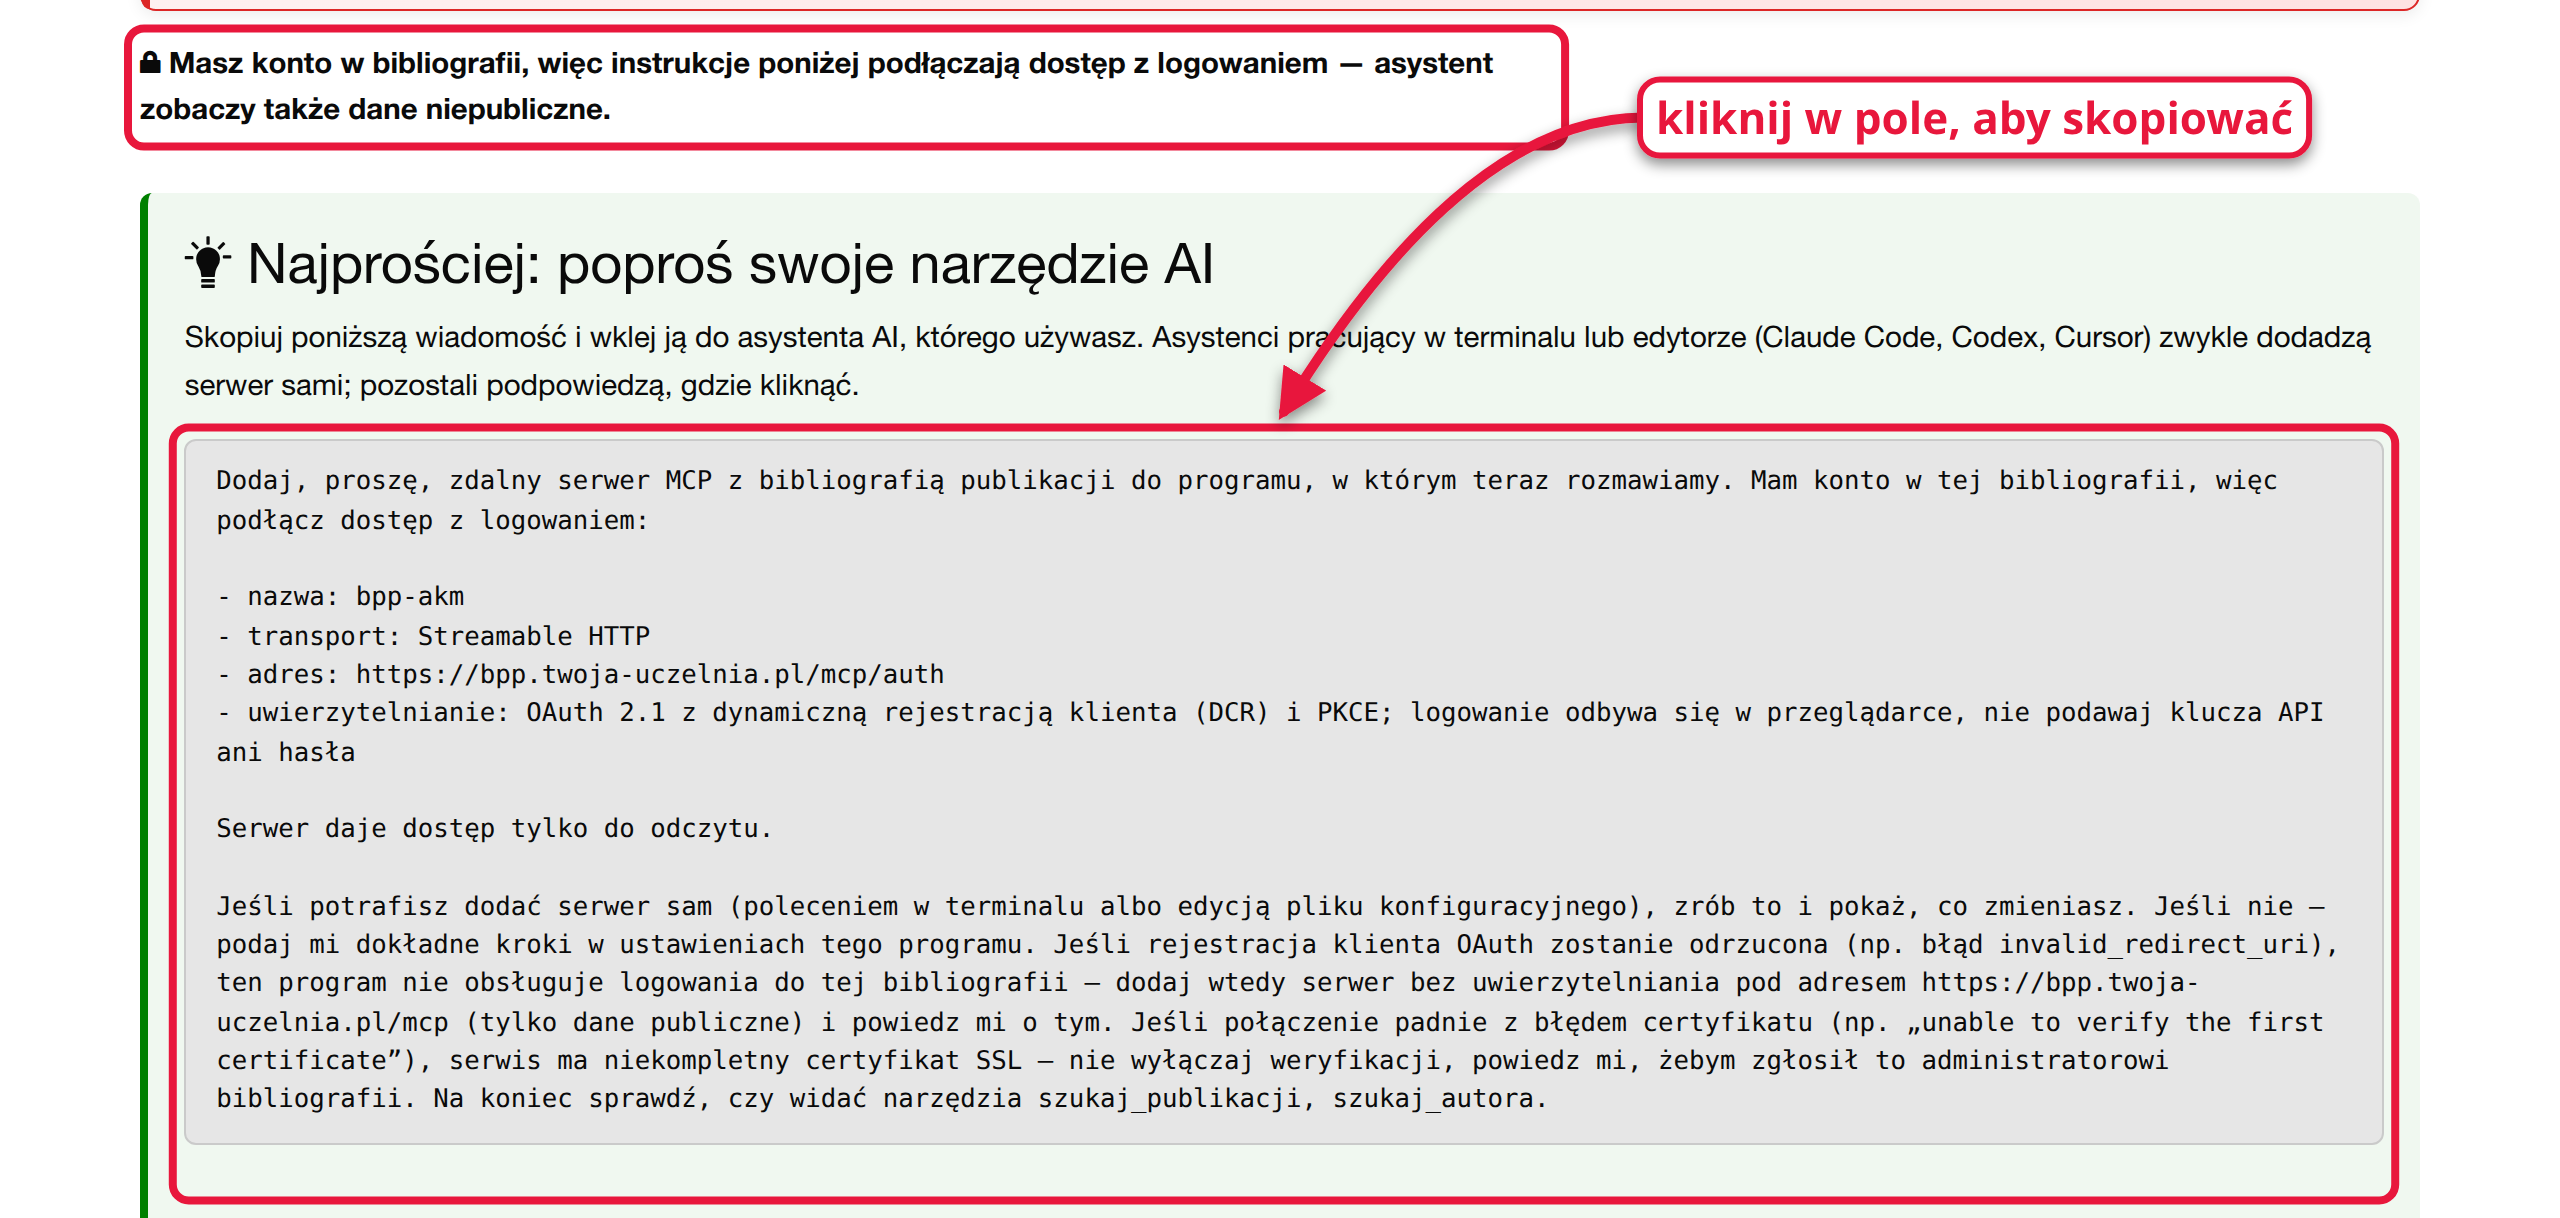
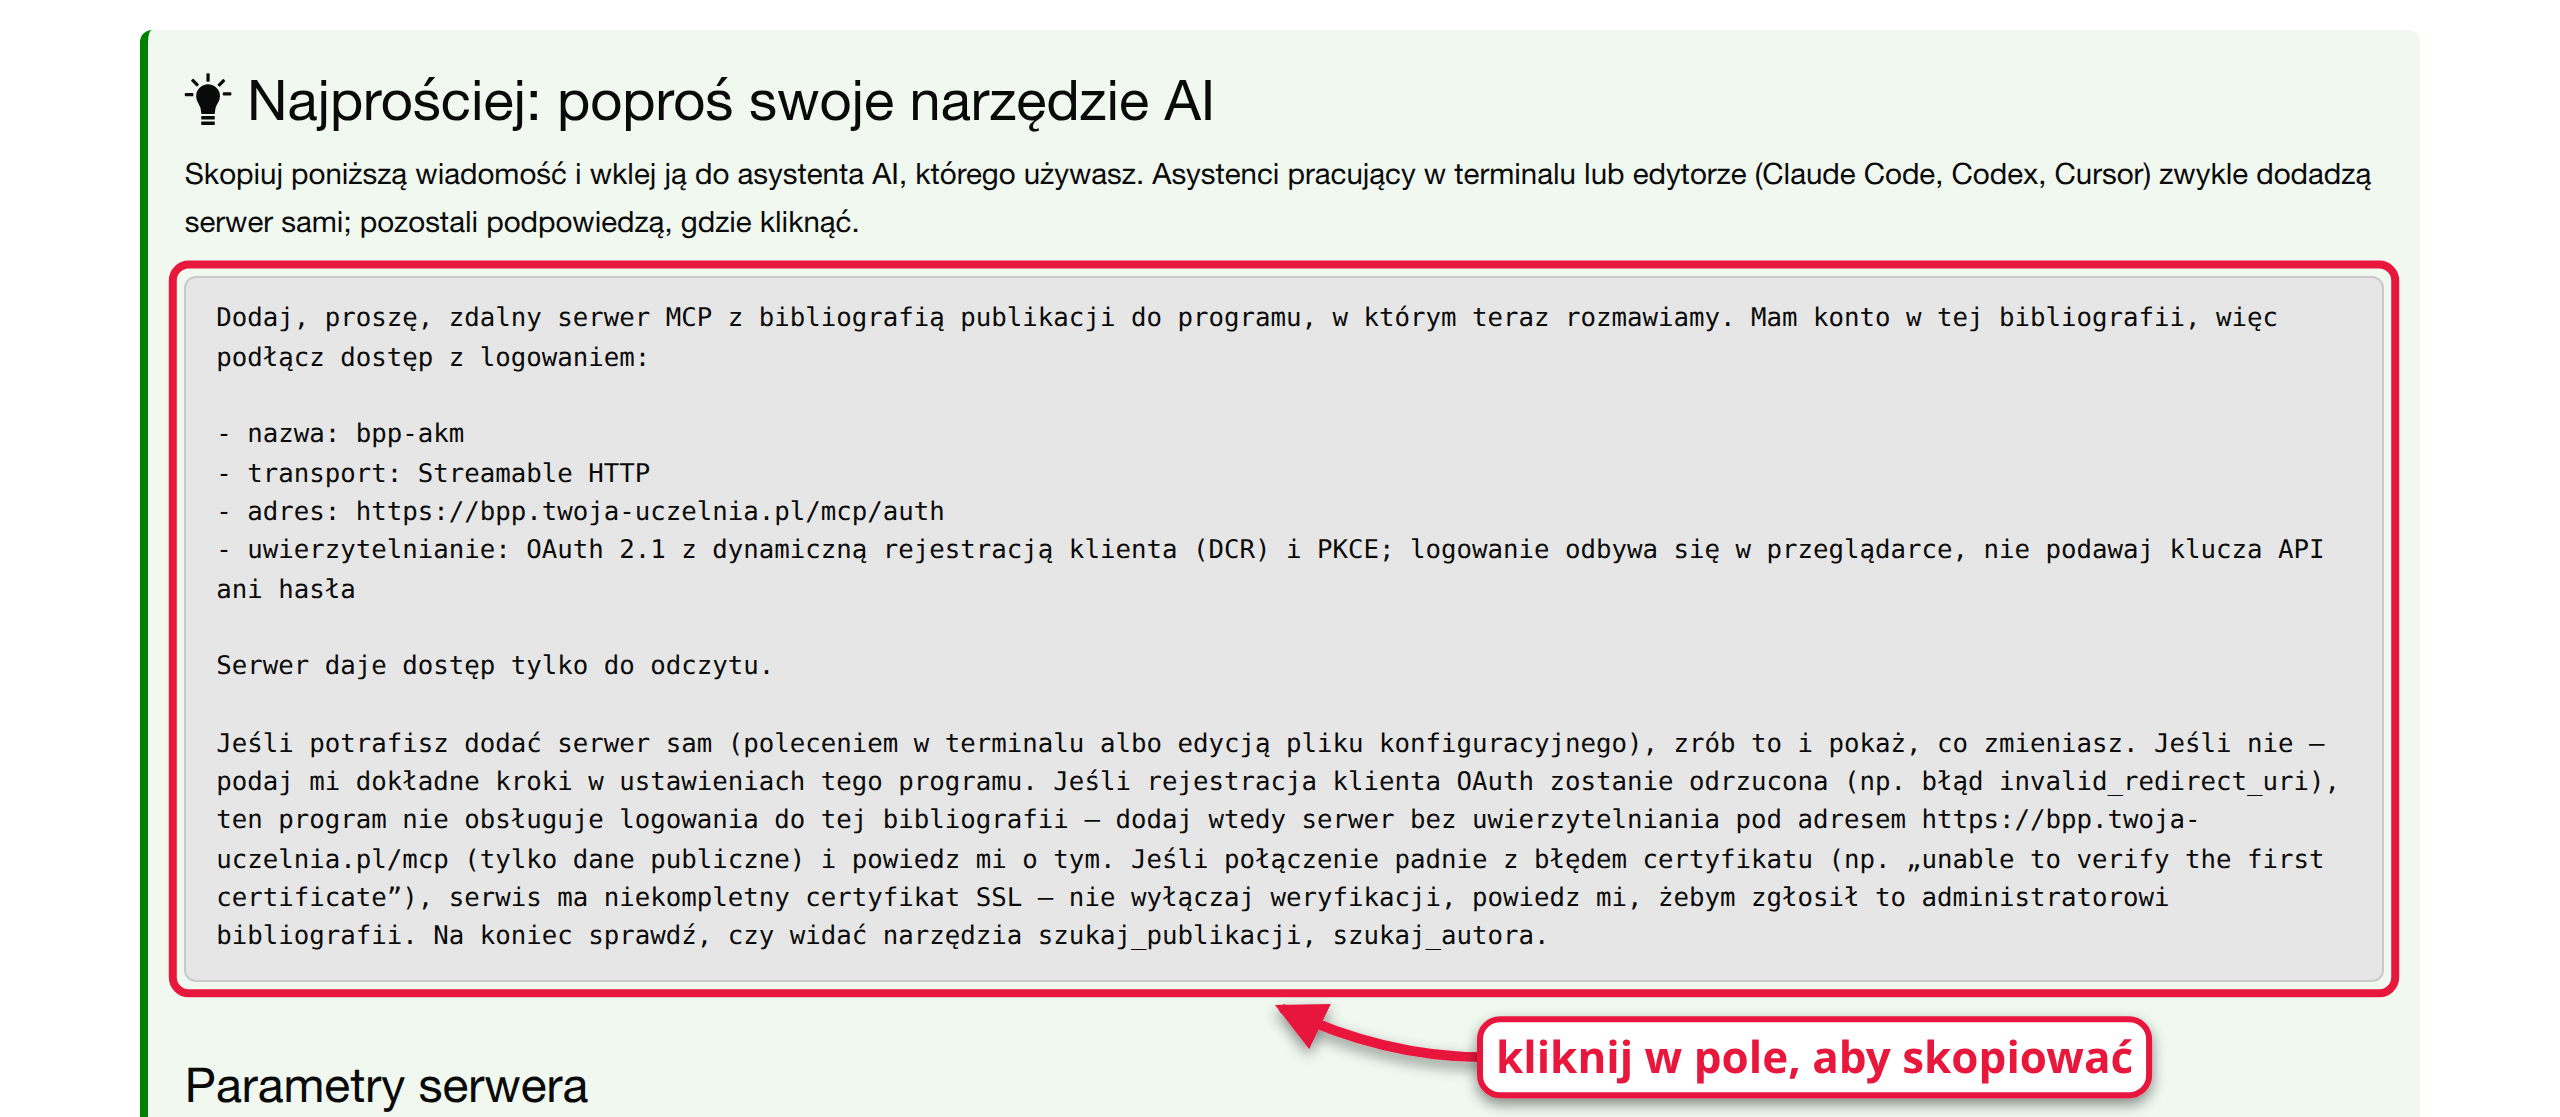
docs(uzytkownik): tidy annotations on two asystent-ai screenshots
Drop unlabeled boxes, fit the address box to the field, keep the copy
arrow clear of text and crop the stray border off the top.

Changed region(s): [[0.0312, 0.0, 0.9375, 1.0]]

diff --git a/bin/docs-screenshots.py b/bin/docs-screenshots.py
@@ -6484,22 +6484,21 @@ def asystent_ai(page: Page, base: str, out: Path) -> None:
     mark(
         zal,
         [
-            {"sel": ".mcp-strona__wariant"},
             {
-                "sel": "[data-mcp-kopiuj=mcp-prompt]",
-                "arrow": "above",
+                "sel": "#mcp-prompt",
+                "arrow": "below",
                 "label": "kliknij w pole, aby skopiować",
-                "dx": 120,
-                "dy": -45,
+                "dx": 40,
+                "dy": -78,
             },
         ],
     )
-    top = page_box(zal, ".mcp-strona__wariant")["y"] - 20
+    top = page_box(zal, "#mcp-najprosciej")["y"] - 30
     shot(
         zal,
         out / "02-wiadomosc-dla-asystenta.png",
         top,
-        bottom_of(zal, "[data-mcp-kopiuj=mcp-prompt]", 15) - top,
+        bottom_of(zal, "#mcp-prompt", 68) - top,
     )
 
     zal.locator("#mcp-klient-claude summary").click()
@@ -6508,14 +6507,11 @@ def asystent_ai(page: Page, base: str, out: Path) -> None:
         zal,
         [
             {
-                "sel": "[data-mcp-kopiuj=mcp-adres]",
+                "sel": "#mcp-adres",
                 "arrow": "above",
                 "label": "1. adres serwera — kliknij, aby skopiować",
                 "dx": -120,
                 "dy": 50,
-            },
-            {
-                "sel": "#mcp-klient-claude summary",
             },
             {
                 "sel": "#mcp-klient-claude a.mcp-strona__instaluj",
